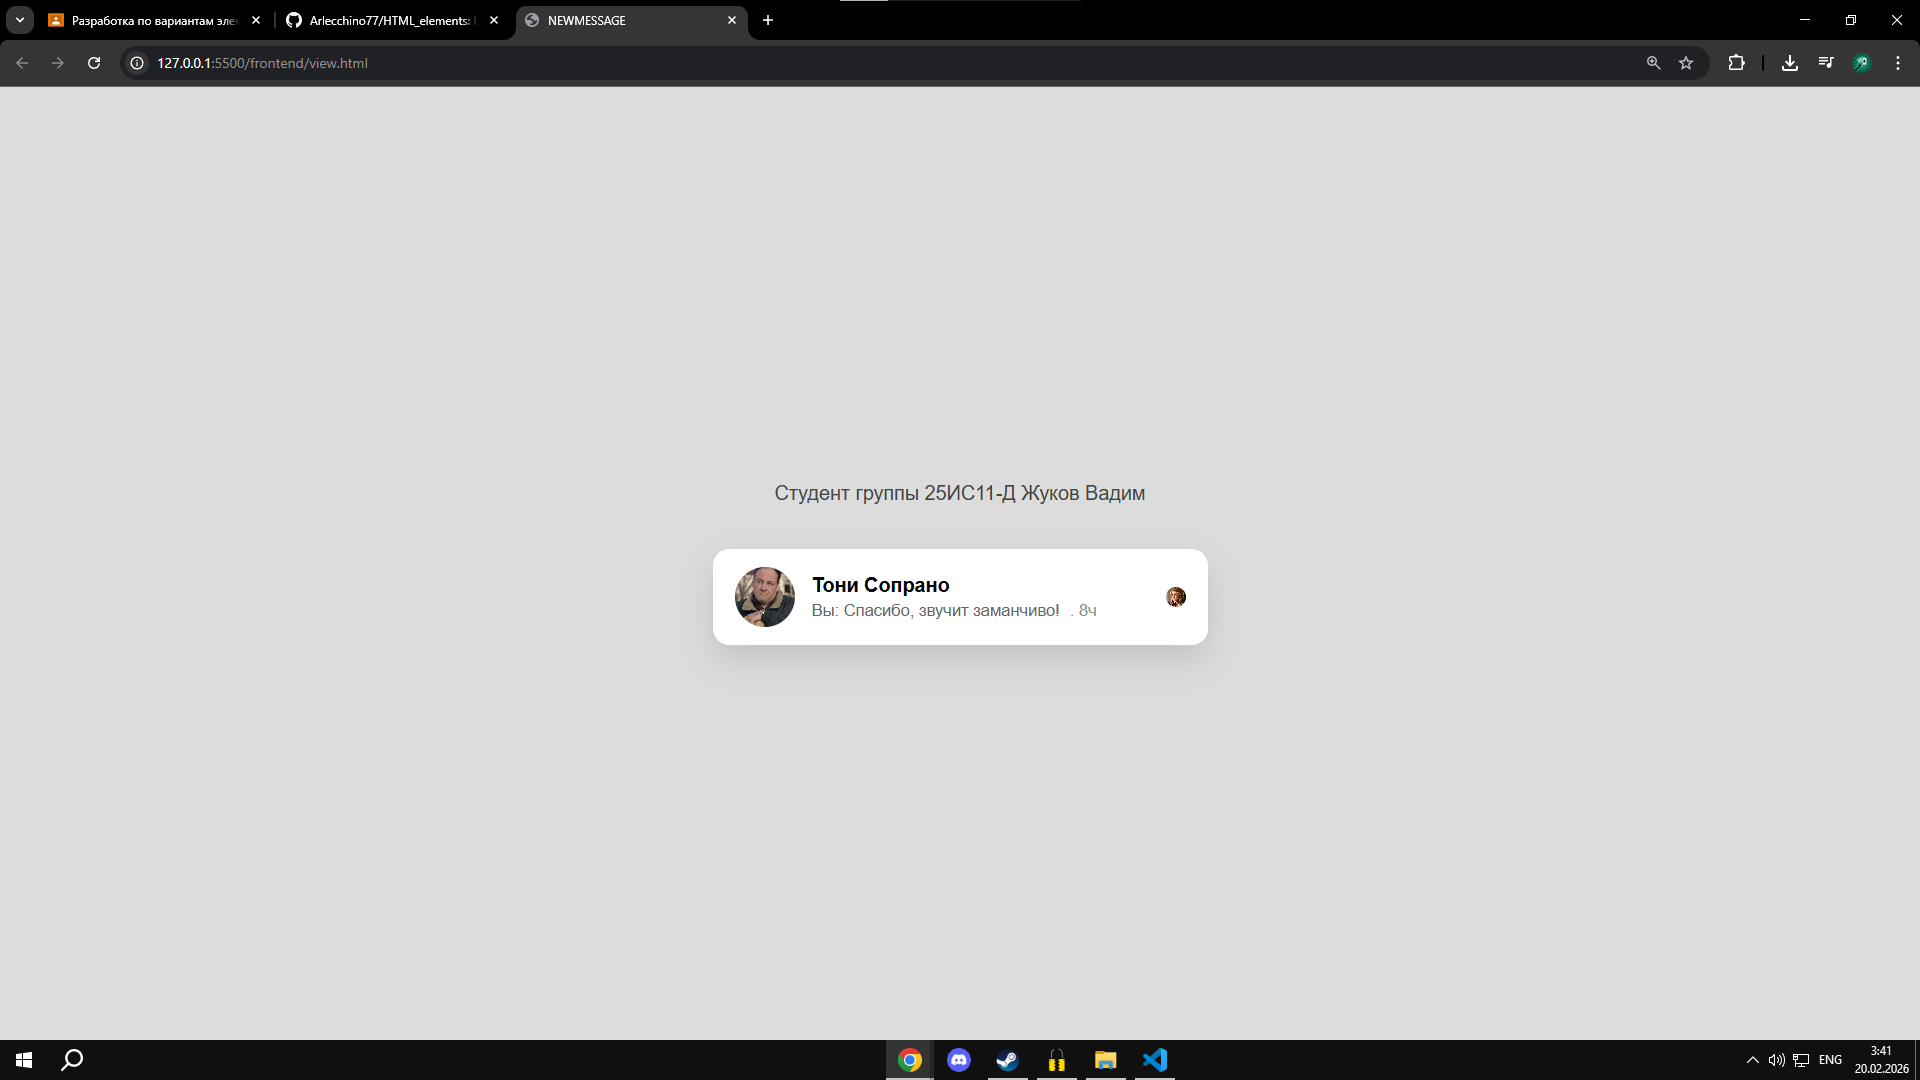
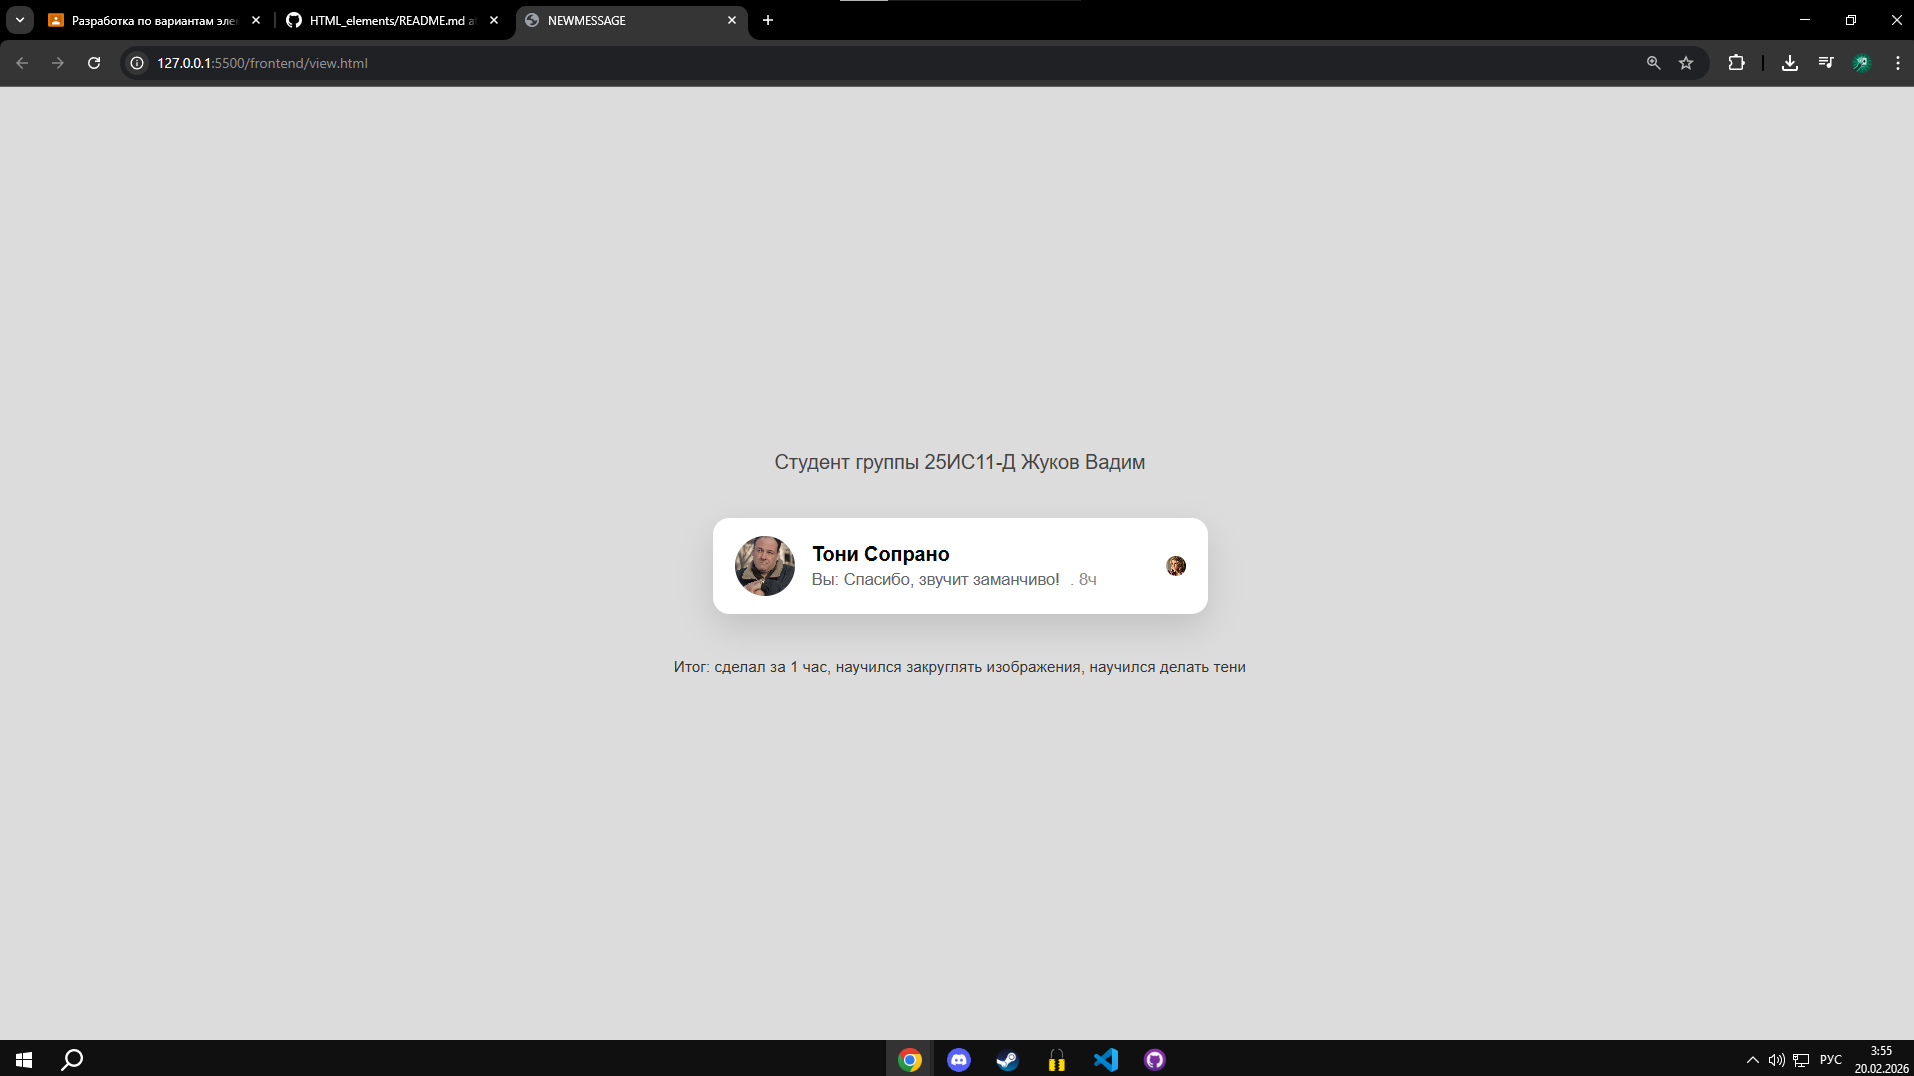
hot fixes

diff --git a/frontend/view.css b/frontend/view.css
@@ -72,3 +72,9 @@ header {
     border-radius: 50%;
     object-fit: cover;
 }
+footer {
+    margin-top: 40px; /* Расстояние от виджета до футера */
+    font-size: 14px;
+    color: #333;
+    text-align: center;
+}

diff --git a/frontend/view.html b/frontend/view.html
@@ -24,4 +24,7 @@
         </div>
     </div>
 </body>
+<footer>
+    Итог: сделал за 1 час, научился закруглять изображения, научился делать тени
+</footer>
 </html>

diff --git a/README.md b/README.md
@@ -1,4 +1,121 @@
 # HTML_elements
+<<<<<<< HEAD
 Проект на тему: разработка элементов html
 студент группы 25ИС11-Д Жуков Вадим
 Stack: HTML, CSS, VS Code
+=======
+### Проект на тему: разработка элементов html вариант 8
+### студент группы 25ИС11-Д Жуков Вадим
+### Stack: HTML, CSS, VS Code
+
+<img src="https://github.com/Arlecchino77/HTML_elements/blob/main/screen.png?raw=true" alt="Screen">
+
+html
+```
+<!DOCTYPE html>
+<html lang="ru">
+<head>
+    <meta charset="UTF-8">
+    <meta name="viewport" content="width=device-width, initial-scale=1.0">
+    <link rel="stylesheet" href="view.css">
+    <title>NEWMESSAGE</title>
+</head>
+<header>
+    Студент группы 25ИС11-Д Жуков Вадим
+</header>
+<body style="background-color: #DCDCDC;">
+    <div class="chat-card">
+        <img src="../images/soprano.jpg" alt="Avatar" class="avatar">
+            <div class="content">
+                <div class="name">Тони Сопрано</div>
+                <div class="message">
+                    <span class="text">Вы: Спасибо, звучит заманчиво!</span>
+                    <span class="time">. 8ч</span>
+                </div>
+            </div>
+        <div class="status">
+            <img src="../images/carmela.jpg" alt="Seen" class="seen-img">
+        </div>
+    </div>
+</body>
+</html>
+```
+css
+```
+body {
+    margin: 0;
+    display: flex;
+    flex-direction: column;
+    justify-content: center;
+    align-items: center;
+    min-height: 100vh;
+    background-color: #DCDCDC;
+    font-family: sans-serif;
+}
+
+header {
+    margin-bottom: 40px;
+    font-size: 18px;
+    color: #444;
+}
+
+.chat-card {
+    display: flex;
+    align-items: center;
+    padding: 16px 20px;
+    background: #ffffff;
+    border-radius: 15px;
+    width: 450px;
+    box-shadow: 0 12px 30px rgba(0, 0, 0, 0.12);
+    box-sizing: border-box;
+}
+
+.avatar {
+    width: 55px;
+    height: 55px;
+    border-radius: 50%;
+    object-fit: cover;
+    margin-right: 15px;
+    flex-shrink: 0;
+}
+
+.content {
+    flex-grow: 1;
+    display: flex;
+    flex-direction: column;
+    overflow: hidden;
+}
+
+.name {
+    font-weight: 600;
+    font-size: 18px;
+    color: #050505;
+    margin-bottom: 4px;
+}
+
+.message {
+    color: #65676b;
+    font-size: 15px;
+}
+
+.time {
+    color: #8a8d91;
+    margin-left: 5px;
+}
+
+.status {
+    display: flex;
+    align-items: center;
+    margin-left: 15px;
+    flex-shrink: 0;
+}
+
+.seen-img {
+    width: 18px;
+    height: 18px;
+    border-radius: 50%;
+    object-fit: cover;
+}
+
+```
+>>>>>>> 102fa6a4945c2368207b259f75d0bfaccbbd09bf
